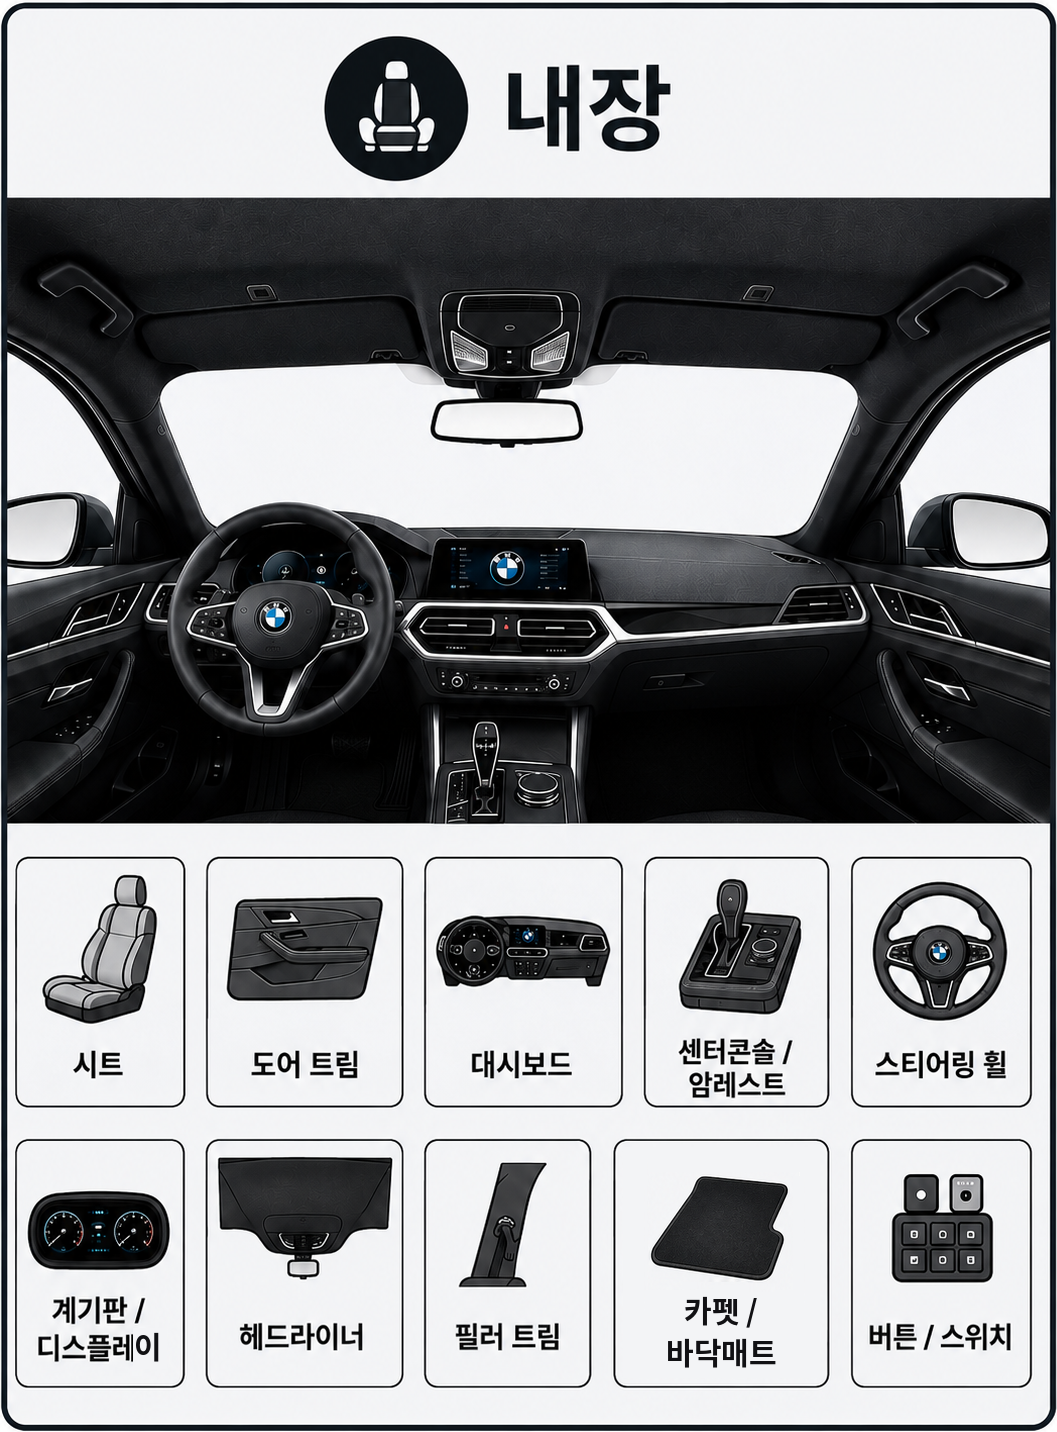
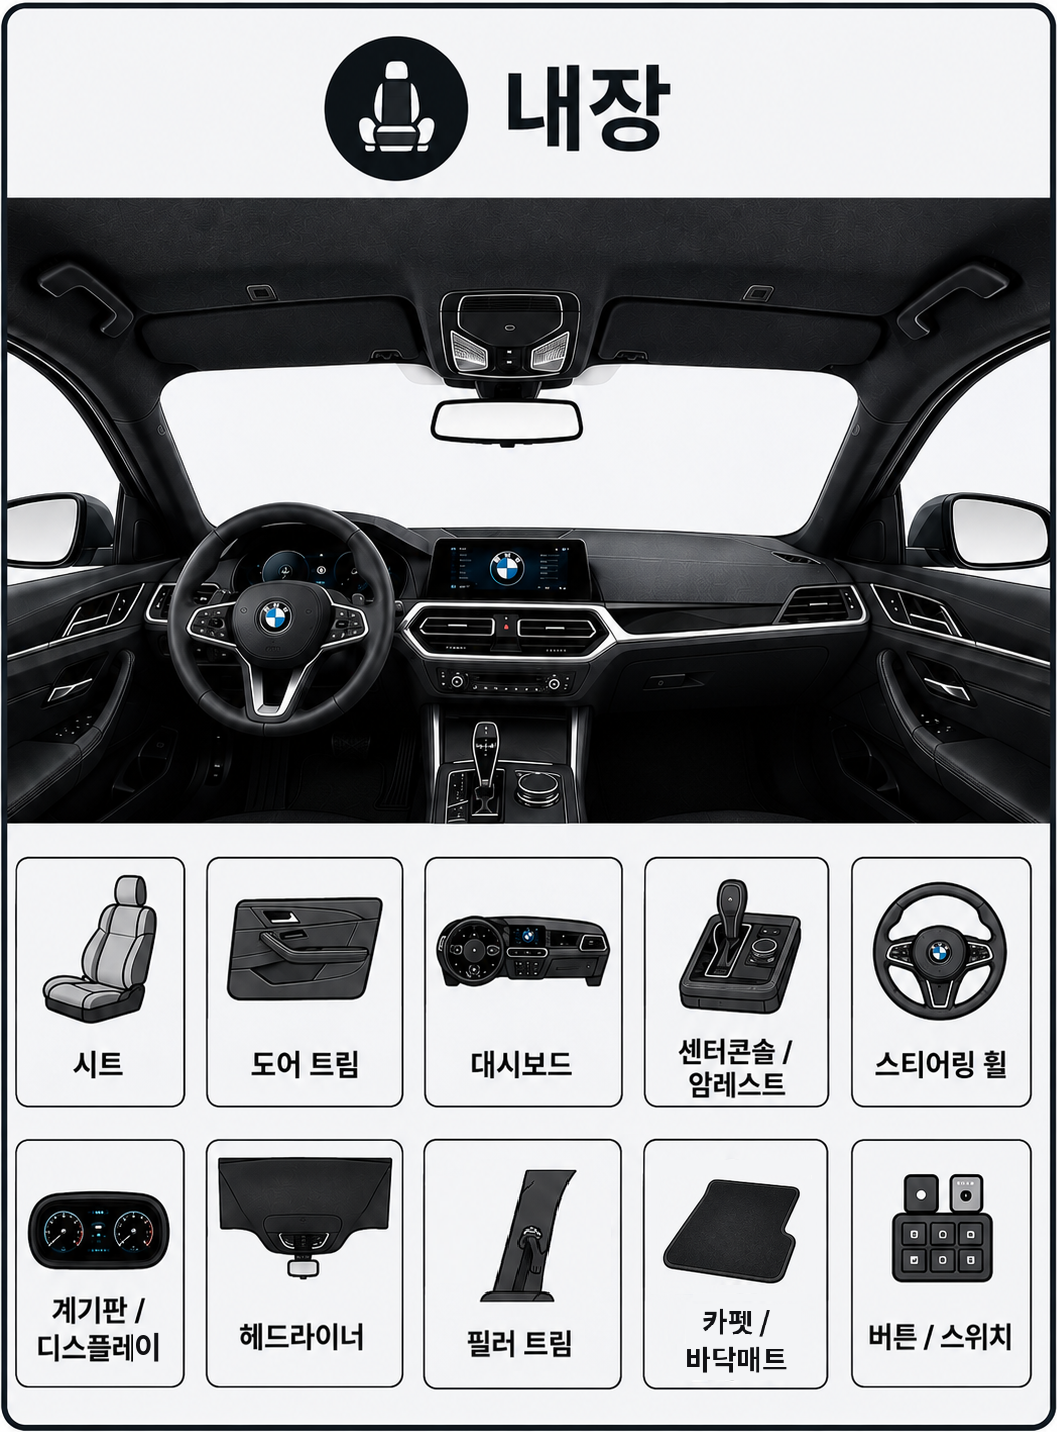
Add files via upload

diff --git a/index.html b/index.html
@@ -266,39 +266,31 @@ main{
 /* ========================================================
    카테고리 정의
 ======================================================== */
-// 외장/내장 원본 이미지에서 실측한 열(좌우) / 행(상하) 경계 (%)
+// 외장 이미지(교체본)에서 실측한 열(좌우) 경계 (%)
 const COLS_EXTERIOR = [
-  [4.64, 21.19],
-  [23.31, 40.53],
-  [42.78, 59.34],
-  [61.46, 78.15],
-  [80.27, 96.29],
+  [2.37, 19.25],
+  [21.38, 39.03],
+  [41.31, 58.40],
+  [60.48, 77.48],
+  [79.66, 96.22],
 ];
 
-// 내장은 행마다 아이콘 카드 폭이 서로 달라서(예: 필러 트림은 좁고, 송풍구는 넓음)
-// 행별로 별도의 열 좌표 테이블을 사용
-const COLS_INTERIOR_ROW1 = [ // 시트/도어 트림/대시보드/센터콘솔·암레스트/스티어링 휠
-  [1.67, 16.74],
-  [19.29, 36.96],
-  [39.50, 57.26],
-  [59.76, 76.41],
-  [78.91, 95.10],
-];
-const COLS_INTERIOR_ROW2 = [ // 계기판/헤드라이너/필러 트림/카펫·바닥매트/버튼·스위치
-  [1.57, 16.80],
-  [19.24, 37.00],
-  [39.46, 54.39],
-  [56.94, 76.41],
-  [78.86, 95.14],
+// 내장 이미지(교체본)에서 실측한 열(좌우) 경계 (%) - 새 이미지는 행마다 카드 폭이 동일한 균일 그리드
+const COLS_INTERIOR = [
+  [2.00, 19.50],
+  [21.50, 40.10],
+  [42.10, 58.84],
+  [60.63, 78.34],
+  [80.34, 97.40],
 ];
 
 const ROWS_EXTERIOR = [
-  [57.52, 75.88],
-  [77.93, 95.80],
+  [57.58, 76.33],
+  [78.28, 96.69],
 ];
 const ROWS_INTERIOR = [
-  [59.66, 76.77],
-  [79.04, 96.02],
+  [59.78, 77.27],
+  [79.47, 96.72],
 ];
 
 // 파워트레인/섀시 이미지(교체본)에서 실측한 열(좌우) / 행(상하) 경계 (%)
@@ -320,7 +312,7 @@ function rect(colIdx, rowIdx, group){
     cols = COLS_EXTERIOR;
     rows = ROWS_EXTERIOR;
   } else if(group === "interior"){
-    cols = rowIdx === 0 ? COLS_INTERIOR_ROW1 : COLS_INTERIOR_ROW2;
+    cols = COLS_INTERIOR;
     rows = ROWS_INTERIOR;
   } else {
     cols = COLS_POWERTRAIN;
